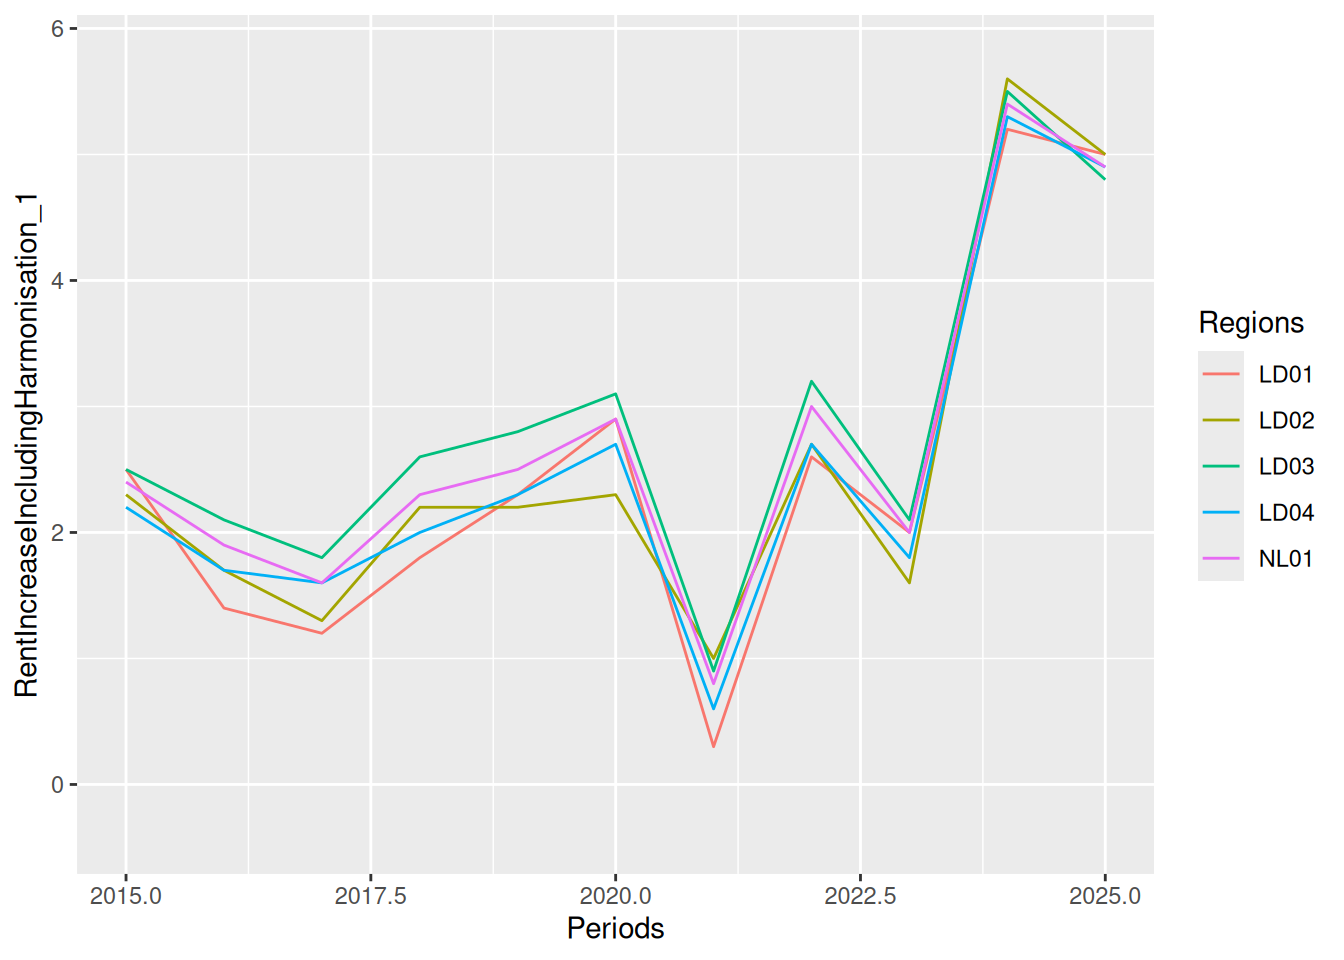
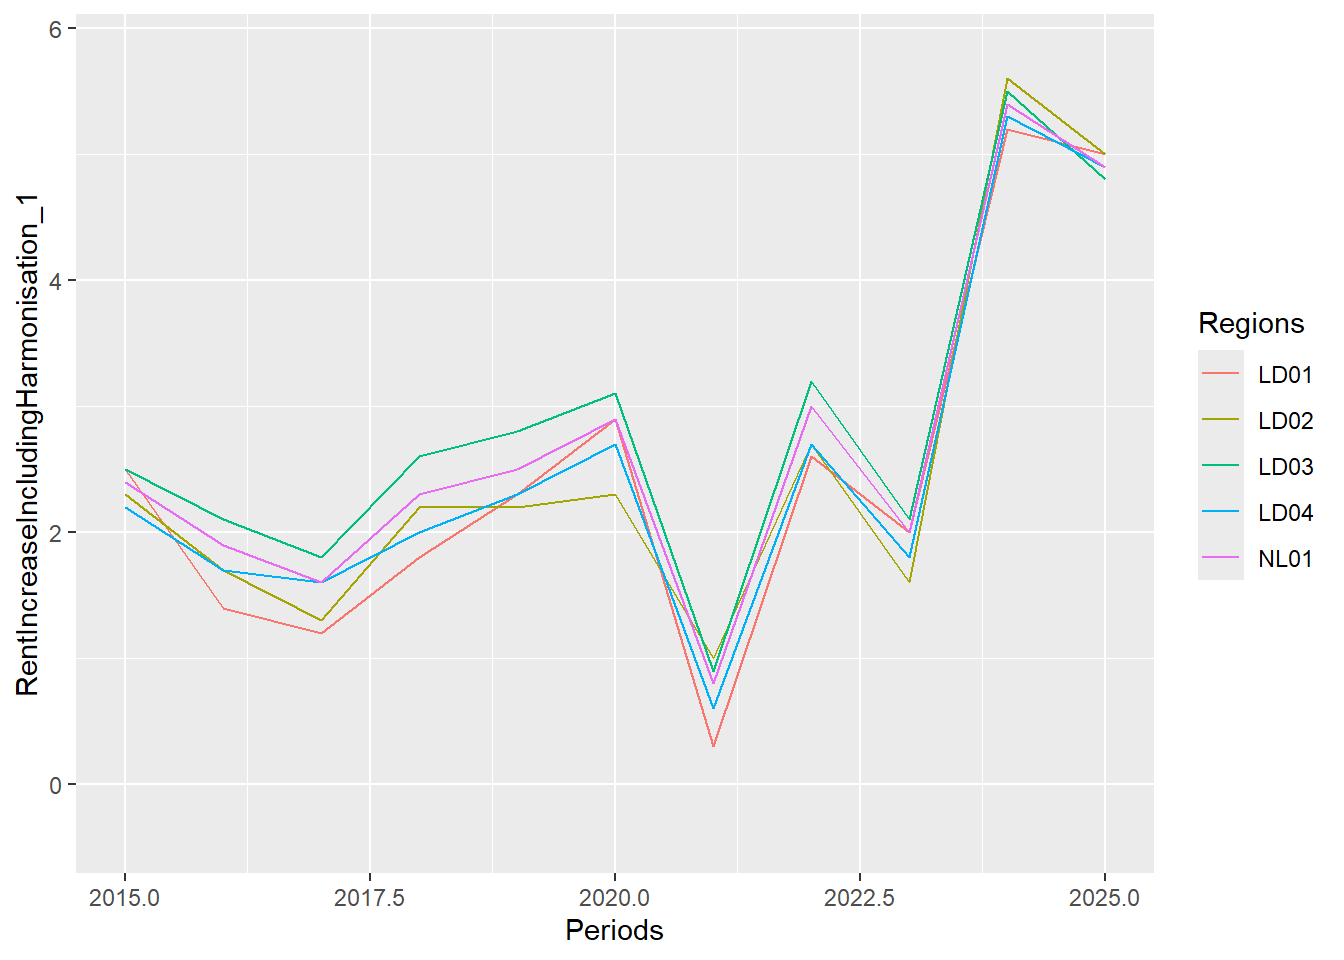
Grouping variables of proximity dataset and computing its means

diff --git a/Rent Analysis.html b/Rent Analysis.html
@@ -24,6 +24,41 @@ ul.task-list li input[type="checkbox"] {
   margin: 0 0.8em 0.2em -1em; /* quarto-specific, see https://github.com/quarto-dev/quarto-cli/issues/4556 */ 
   vertical-align: middle;
 }
+/* CSS for syntax highlighting */
+html { -webkit-text-size-adjust: 100%; }
+pre > code.sourceCode { white-space: pre; position: relative; }
+pre > code.sourceCode > span { display: inline-block; line-height: 1.25; }
+pre > code.sourceCode > span:empty { height: 1.2em; }
+.sourceCode { overflow: visible; }
+code.sourceCode > span { color: inherit; text-decoration: inherit; }
+div.sourceCode { margin: 1em 0; }
+pre.sourceCode { margin: 0; }
+@media screen {
+div.sourceCode { overflow: auto; }
+}
+@media print {
+pre > code.sourceCode { white-space: pre-wrap; }
+pre > code.sourceCode > span { text-indent: -5em; padding-left: 5em; }
+}
+pre.numberSource code
+  { counter-reset: source-line 0; }
+pre.numberSource code > span
+  { position: relative; left: -4em; counter-increment: source-line; }
+pre.numberSource code > span > a:first-child::before
+  { content: counter(source-line);
+    position: relative; left: -1em; text-align: right; vertical-align: baseline;
+    border: none; display: inline-block;
+    -webkit-touch-callout: none; -webkit-user-select: none;
+    -khtml-user-select: none; -moz-user-select: none;
+    -ms-user-select: none; user-select: none;
+    padding: 0 4px; width: 4em;
+  }
+pre.numberSource { margin-left: 3em;  padding-left: 4px; }
+div.sourceCode
+  {   }
+@media screen {
+pre > code.sourceCode > span > a:first-child::before { text-decoration: underline; }
+}
 </style>
 
 
@@ -37,7 +72,7 @@ ul.task-list li input[type="checkbox"] {
 <link href="Rent Analysis_files/libs/quarto-html/quarto-syntax-highlighting-15634bcf2e68342d4ad2dfa704d543f6.css" rel="stylesheet" id="quarto-text-highlighting-styles">
 <script src="Rent Analysis_files/libs/bootstrap/bootstrap.min.js"></script>
 <link href="Rent Analysis_files/libs/bootstrap/bootstrap-icons.css" rel="stylesheet">
-<link href="Rent Analysis_files/libs/bootstrap/bootstrap-293eb07ceb3ef7671a4ab4ab66eb6066.min.css" rel="stylesheet" append-hash="true" id="quarto-bootstrap" data-mode="light">
+<link href="Rent Analysis_files/libs/bootstrap/bootstrap-efbb37e9afcc02144ebbc7afd12a776f.min.css" rel="stylesheet" append-hash="true" id="quarto-bootstrap" data-mode="light">
 
 
 </head>
@@ -73,16 +108,275 @@ ul.task-list li input[type="checkbox"] {
 </header>
 
 
+<section id="period-column-cleaning" class="level2">
+<h2 class="anchored" data-anchor-id="period-column-cleaning">Period column cleaning</h2>
+<p><code>Periods</code> is stored as character in the raw data because each value carries a “JJ” suffix (e.g.&nbsp;“2019JJ”). Here <code>Periods</code> is converted to numeric while eliminating the “JJ” suffix behind the according year.</p>
+<div class="cell">
+<div class="code-copy-outer-scaffold"><div class="sourceCode cell-code" id="cb1"><pre class="sourceCode r code-with-copy"><code class="sourceCode r"><span id="cb1-1"><a href="#cb1-1" aria-hidden="true" tabindex="-1"></a>proximity_clean <span class="ot">&lt;-</span> proximity<span class="sc">|&gt;</span> </span>
+<span id="cb1-2"><a href="#cb1-2" aria-hidden="true" tabindex="-1"></a>  <span class="fu">separate_wider_delim</span>(</span>
+<span id="cb1-3"><a href="#cb1-3" aria-hidden="true" tabindex="-1"></a>    Periods,</span>
+<span id="cb1-4"><a href="#cb1-4" aria-hidden="true" tabindex="-1"></a>    <span class="at">delim =</span> <span class="st">"JJ"</span>,</span>
+<span id="cb1-5"><a href="#cb1-5" aria-hidden="true" tabindex="-1"></a>    <span class="at">names =</span> <span class="fu">c</span>(<span class="st">"Periods"</span>,<span class="st">"Rest"</span>)) <span class="sc">|&gt;</span> </span>
+<span id="cb1-6"><a href="#cb1-6" aria-hidden="true" tabindex="-1"></a>  <span class="fu">mutate</span>(<span class="at">Periods =</span> <span class="fu">as.numeric</span>(Periods)) <span class="sc">|&gt;</span></span>
+<span id="cb1-7"><a href="#cb1-7" aria-hidden="true" tabindex="-1"></a>  <span class="fu">select</span>(<span class="sc">!</span>Rest)</span></code></pre></div><button title="Copy to Clipboard" class="code-copy-button"><i class="bi"></i></button></div>
+</div>
+<div class="cell">
+<div class="code-copy-outer-scaffold"><div class="sourceCode cell-code" id="cb2"><pre class="sourceCode r code-with-copy"><code class="sourceCode r"><span id="cb2-1"><a href="#cb2-1" aria-hidden="true" tabindex="-1"></a>rent_clean <span class="ot">&lt;-</span> rent <span class="sc">|&gt;</span> </span>
+<span id="cb2-2"><a href="#cb2-2" aria-hidden="true" tabindex="-1"></a>  <span class="fu">separate_wider_delim</span>(</span>
+<span id="cb2-3"><a href="#cb2-3" aria-hidden="true" tabindex="-1"></a>    Periods,</span>
+<span id="cb2-4"><a href="#cb2-4" aria-hidden="true" tabindex="-1"></a>    <span class="at">delim =</span> <span class="st">"JJ"</span>,</span>
+<span id="cb2-5"><a href="#cb2-5" aria-hidden="true" tabindex="-1"></a>    <span class="at">names =</span> <span class="fu">c</span>(<span class="st">"Periods"</span>,<span class="st">"Rest"</span>)) <span class="sc">|&gt;</span> </span>
+<span id="cb2-6"><a href="#cb2-6" aria-hidden="true" tabindex="-1"></a>  <span class="fu">mutate</span>(<span class="at">Periods =</span> <span class="fu">as.numeric</span>(Periods)) <span class="sc">|&gt;</span></span>
+<span id="cb2-7"><a href="#cb2-7" aria-hidden="true" tabindex="-1"></a>  <span class="fu">select</span>(<span class="sc">!</span>Rest)</span></code></pre></div><button title="Copy to Clipboard" class="code-copy-button"><i class="bi"></i></button></div>
+</div>
+</section>
 <section id="data-description" class="level2">
 <h2 class="anchored" data-anchor-id="data-description">Data description</h2>
 <p>Github link: https://github.com/martin-carricas-asin/Dutch-Rent-Analysis</p>
-<p>Data sources:</p>
+<p><em>Data sources:</em></p>
 <ul>
-<li><p>proximity to facilities, regional data: https://opendata.cbs.nl/portal.html?_la=en&amp;_catalog=CBS&amp;tableId=80305ENG&amp;_theme=1187</p></li>
+<li><p>Proximity to facilities, regional data: https://opendata.cbs.nl/portal.html?_la=en&amp;_catalog=CBS&amp;tableId=80305ENG&amp;_theme=1187</p></li>
 <li><p>Rent increase data: https://opendata.cbs.nl/portal.html?_la=en&amp;_catalog=CBS&amp;tableId=83162ENG&amp;_theme=1175</p></li>
 </ul>
-<p>The the source of the data sets is CBS Open data Statline which is the database of the Statistics Netherlands. This is an independent government institution responsible for gathering and publishing various official statistics about the Netherlands. The land use data set is based on a land use file which documents area statistics for different regions in the netherlands.This land use file provides data only for a subset of years, for all other years only total surface area is given. Due to the methodology behind the land use file being updated, no new data has been reported since 2017. Any corrections that were found in the land use file for data on previous years were not transfered to this data set.</p>
-<p>The proximity to facilities dataset has 340 rows and 128 columns. The rent dataset has 252 rows and 5 columns</p>
+<p>The the source of the datasets is CBS Open data Statline, the database of the Statistics Netherlands. This is an independent government institution responsible for gathering and publishing various official statistics about the Netherlands.</p>
+<p>The dataset on rent increase per region covers the period from 2015 to 2026 and describes the average rent increase accross the country, regions and provinces, both including harmonisation and excluding harmonisation. It includes the rent increase of regulated, mid-tier and liberalised dwellings. Rent increase is defined as the average change in rental prices over a year, with the maximum permitted rent increase determined by the dutch government. Rent harmonisation allows the rent to be increased higher than the maximum rent increase valid for that year when there is a change in tenancy. This is meant to allow the property to be rented at its current rental value. The new rent is still limited by the maximum rent based on the Ministry of Interior and Kingdom Relations’ Rent Point System. This regulation targets situations in which, following a longterm lease, the previous rent is lower than the property’s current rental value due to the limit on rent increases during the previous tenancy. The regions are identified by region codes and stored as characters, whereas the other variables are stored as doubles. The dataset contains no missing values.</p>
+<p>The dataset on proximity to facilities per region records the average distance for residents from their homes to different types of facilities over the period from 2006 to 2025. In addition to the distance variables, the data set also contains variables recording the number of facilities within a given radius. They are calculated as an average over all persons in an area. The data is given at the national, regional, provincial and municipal level.</p>
+<p>All distances are calculated based on the shortest driving distance (by car). Variables describing the distance to a facility are given in kilometre and stored as a double data type. The variables indicating the number of facilities within a given radius is recorded as an average number and also stored as a double. The region codes are the same as in the rent dataset and also stored as characters. Depending on the variable there are many missing values or none at all. For example the distance to youth health care centre variable shows 95% NA, the variable Distance to School 56 (Distance to primary schools) shows no missing values at all. These differences in missing values were caused by changes in the recorded values per year. Data on youth health care centers were only recorded in the first year (2006) while others have been continuously added to until now.</p>
+</section>
+<section id="individual-dataset-descriptives" class="level2">
+<h2 class="anchored" data-anchor-id="individual-dataset-descriptives">Individual Dataset Descriptives</h2>
+<section id="rent-dataset" class="level3">
+<h3 class="anchored" data-anchor-id="rent-dataset">Rent Dataset</h3>
+<p>The rent dataset has 252 rows and 5 columns.</p>
+<table class="caption-top table">
+<colgroup>
+<col style="width: 34%">
+<col style="width: 37%">
+<col style="width: 27%">
+</colgroup>
+<thead>
+<tr class="header">
+<th>Number of Regions</th>
+<th>Time Periods</th>
+<th>Years</th>
+</tr>
+</thead>
+<tbody>
+<tr class="odd">
+<td>21</td>
+<td>12</td>
+<td>2015- 2026</td>
+</tr>
+</tbody>
+</table>
+<div class="cell">
+<div class="cell-output-display">
+<div class="kable-table">
+<table class="caption-top table table-sm table-striped small">
+<thead>
+<tr class="header">
+<th style="text-align: left;">statistic</th>
+<th style="text-align: right;">rent_incl</th>
+<th style="text-align: right;">rent_excl</th>
+</tr>
+</thead>
+<tbody>
+<tr class="odd">
+<td style="text-align: left;">mean</td>
+<td style="text-align: right;">2.77</td>
+<td style="text-align: right;">2.24</td>
+</tr>
+<tr class="even">
+<td style="text-align: left;">sd</td>
+<td style="text-align: right;">1.39</td>
+<td style="text-align: right;">1.29</td>
+</tr>
+<tr class="odd">
+<td style="text-align: left;">min</td>
+<td style="text-align: right;">0.30</td>
+<td style="text-align: right;">-0.10</td>
+</tr>
+<tr class="even">
+<td style="text-align: left;">max</td>
+<td style="text-align: right;">5.60</td>
+<td style="text-align: right;">4.90</td>
+</tr>
+</tbody>
+</table>
+</div>
+</div>
+</div>
+</section>
+<section id="proximity-dataset" class="level3">
+<h3 class="anchored" data-anchor-id="proximity-dataset">Proximity Dataset</h3>
+<p>The proximity to facilities dataset has 340 rows and 128 columns.</p>
+<table class="caption-top table">
+<colgroup>
+<col style="width: 34%">
+<col style="width: 37%">
+<col style="width: 27%">
+</colgroup>
+<thead>
+<tr class="header">
+<th>Number of Regions</th>
+<th>Time Periods</th>
+<th>Years</th>
+</tr>
+</thead>
+<tbody>
+<tr class="odd">
+<td>21</td>
+<td>20</td>
+<td>2006- 2025</td>
+</tr>
+</tbody>
+</table>
+<table class="caption-top table">
+<caption>Average Distance in km per Topic</caption>
+<colgroup>
+<col style="width: 11%">
+<col style="width: 11%">
+<col style="width: 11%">
+<col style="width: 11%">
+<col style="width: 11%">
+<col style="width: 11%">
+<col style="width: 11%">
+<col style="width: 11%">
+<col style="width: 11%">
+</colgroup>
+<thead>
+<tr class="header">
+<th>Health &amp; Wellbeing</th>
+<th>Retail</th>
+<th>Hospitality</th>
+<th>Childcare</th>
+<th>Education</th>
+<th>Green Areas</th>
+<th>Transport</th>
+<th>Leisure &amp; Culture</th>
+<th>Fire Stations</th>
+</tr>
+</thead>
+<tbody>
+<tr class="odd">
+<td>3.638375</td>
+<td>1.6896514</td>
+<td>1.4893791</td>
+<td>0.9433007</td>
+<td>2.5747059</td>
+<td>1.4584967</td>
+<td>3.8751625</td>
+<td>8.3327263</td>
+<td>2.2721569</td>
+</tr>
+</tbody>
+</table>
+</section>
+</section>
+<section id="joined-dataset" class="level2">
+<h2 class="anchored" data-anchor-id="joined-dataset">Joined Dataset</h2>
+<div class="cell">
+<div class="code-copy-outer-scaffold"><div class="sourceCode cell-code" id="cb3"><pre class="sourceCode r code-with-copy"><code class="sourceCode r"><span id="cb3-1"><a href="#cb3-1" aria-hidden="true" tabindex="-1"></a>proximity_rent <span class="ot">&lt;-</span> proximity_clean <span class="sc">|&gt;</span></span>
+<span id="cb3-2"><a href="#cb3-2" aria-hidden="true" tabindex="-1"></a>  <span class="fu">inner_join</span>(rent_clean, <span class="at">by=</span><span class="fu">join_by</span>(Regions, Periods))</span></code></pre></div><button title="Copy to Clipboard" class="code-copy-button"><i class="bi"></i></button></div>
+</div>
+<section id="computing-means-of-variable-groups" class="level3">
+<h3 class="anchored" data-anchor-id="computing-means-of-variable-groups">Computing means of variable groups</h3>
+<p>Measured variables and Region Codes will be renamed in the joined dataset for better documentation in the following analysis</p>
+</section>
+</section>
+<section id="variable-description" class="level2">
+<h2 class="anchored" data-anchor-id="variable-description">Variable Description</h2>
+<table class="caption-top table">
+<caption>Variable Description for <code>rent</code> and <code>proximity</code> dataset</caption>
+<colgroup>
+<col style="width: 50%">
+<col style="width: 50%">
+</colgroup>
+<thead>
+<tr class="header">
+<th>Variable</th>
+<th>Description</th>
+</tr>
+</thead>
+<tbody>
+<tr class="odd">
+<td>rent_excl</td>
+<td>Rent increase excluding harmonization only takes into account rents being increased by regular annual adjustments.</td>
+</tr>
+<tr class="even">
+<td>rent_incl</td>
+<td>Rent increase including harmonization is the regular annual rent adjustments plus the extra rise in rent for new tenants.</td>
+</tr>
+<tr class="odd">
+<td>health</td>
+<td>Average distance for all residents in an area to rhe nearest health facilities, calculated by road (in km).</td>
+</tr>
+<tr class="even">
+<td>retail</td>
+<td>Average distance for all residents in an area to the nearest large supermarket and daily food and department stores, calculated by road (in km).</td>
+</tr>
+<tr class="odd">
+<td>hosp</td>
+<td>Average distance for all resident in an area to the nearest hospitality like hotels/hostels, cafeterias, restaurants, calculated by road (in km).</td>
+</tr>
+<tr class="even">
+<td>childcare</td>
+<td>Average distance for all residents in an area to the nearest daycare, calculated by road (in km).</td>
+</tr>
+<tr class="odd">
+<td>educ</td>
+<td>Average distance for all residents in an area to the nearest school, calculated by road (in km).</td>
+</tr>
+<tr class="even">
+<td>green</td>
+<td>Average distance for all residents in an area to the nearest public green area and inland waters, calculated by road (in km).</td>
+</tr>
+<tr class="odd">
+<td>trans</td>
+<td>Average distance for all residents in an area to the nearest main road, train station, calculated by road (in km).</td>
+</tr>
+<tr class="even">
+<td>leisure</td>
+<td>Average distance for all resident in an area to the nearest public library, festival, museums, etc., calculated by road (in km).</td>
+</tr>
+</tbody>
+</table>
+</section>
+<section id="main-variable-rent" class="level2">
+<h2 class="anchored" data-anchor-id="main-variable-rent">Main Variable: Rent</h2>
+<section id="graphical-representation" class="level3">
+<h3 class="anchored" data-anchor-id="graphical-representation">Graphical Representation</h3>
+<p>Subset of Regions: NL01 - country, LD01 - North, LD02 - East, LD03 - West, LD04 - South</p>
+</section>
+<div class="columns">
+<div class="column" style="width:50%;">
+<section id="rent-increase-including-harmonisation" class="level3">
+<h3 class="anchored" data-anchor-id="rent-increase-including-harmonisation">Rent increase including Harmonisation</h3>
+<div class="cell">
+<div class="cell-output-display">
+<div>
+<figure class="figure">
+<p><img src="Rent-Analysis_files/figure-html/unnamed-chunk-8-1.png" class="img-fluid figure-img" width="672"></p>
+</figure>
+</div>
+</div>
+</div>
+</section>
+</div><div class="column" style="width:50%;">
+<section id="rent-increase-excluding-harmonisation" class="level3">
+<h3 class="anchored" data-anchor-id="rent-increase-excluding-harmonisation">Rent increase excluding Harmonisation</h3>
+<div class="cell">
+<div class="cell-output-display">
+<div>
+<figure class="figure">
+<p><img src="Rent-Analysis_files/figure-html/unnamed-chunk-9-1.png" class="img-fluid figure-img" width="672"></p>
+</figure>
+</div>
+</div>
+</div>
+</section>
+</div>
+</div>
 </section>
 
 </main>
